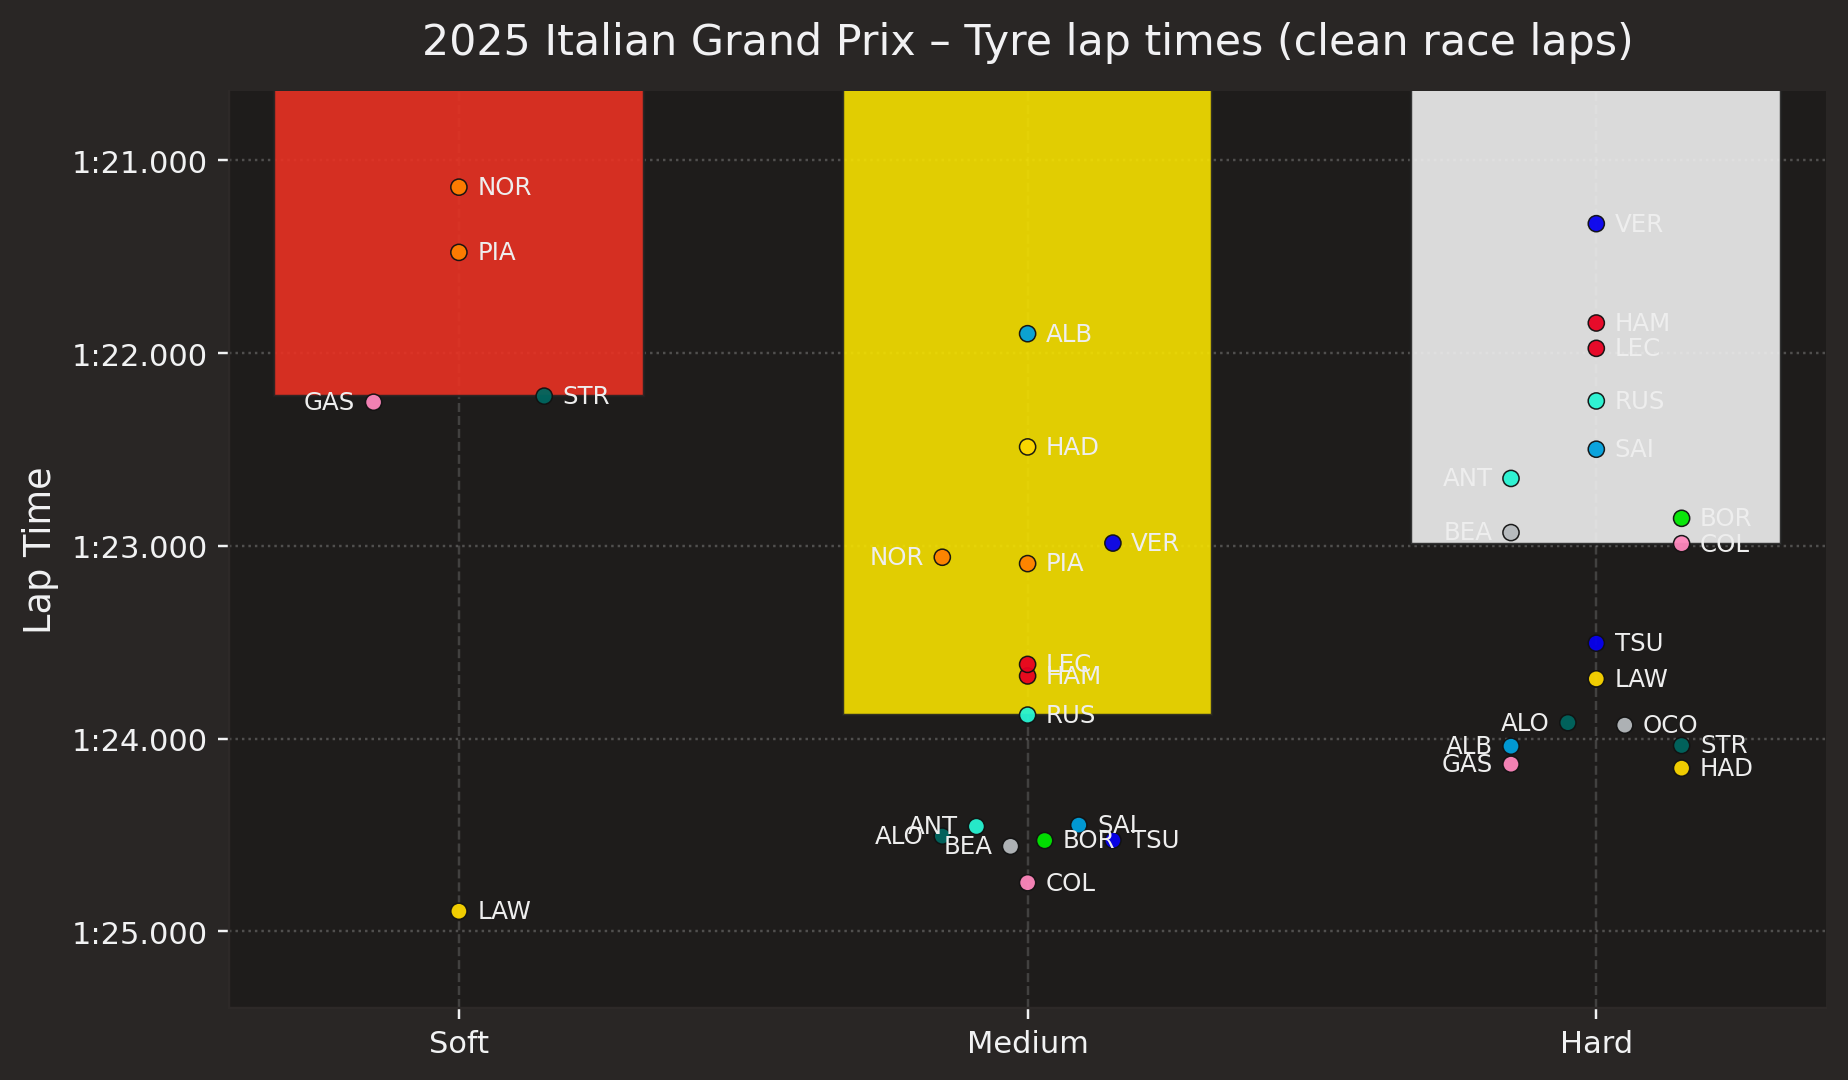
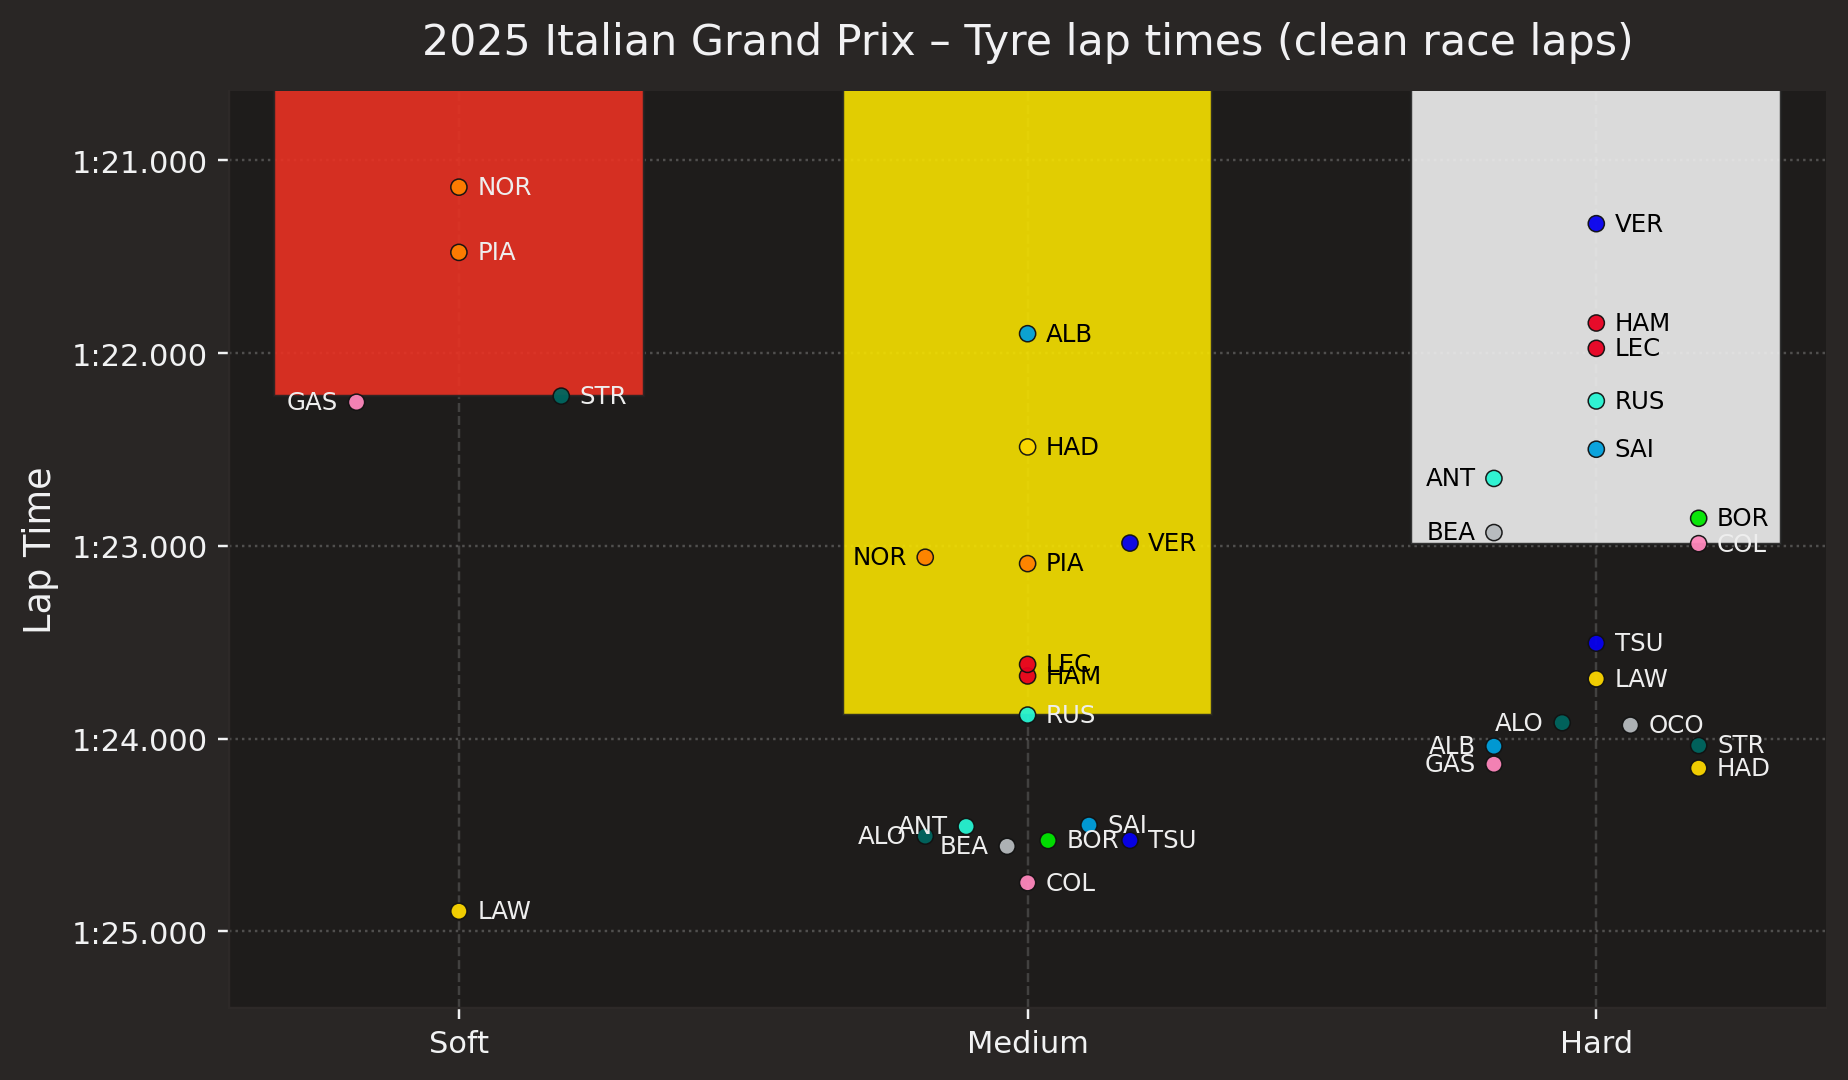
Enhance tyre performance chart annotations and adjust swarm plot width
- Added a dictionary to store median lap times by compound for improved annotation positioning.
- Updated annotation colors based on position relative to the bar
- Increased the swarm plot width

diff --git a/src/fastf1_analytics/charts/tyre_performance.py b/src/fastf1_analytics/charts/tyre_performance.py
@@ -146,12 +146,13 @@ def build_tyre_performance(
     xcats = comp_stats["Compound"].tolist()
     xs = np.arange(len(xcats))
     medians = comp_stats["median_s"].to_numpy()
+    bar_top_by_compound = {c: m for c, m in zip(xcats, medians)}
 
     # Bars = median lap time across drivers
     bar_colors = [get_compound_color(c) for c in xcats]
     ax.bar(xs, medians, width=0.65, edgecolor="#222", linewidth=0.8, color=bar_colors, alpha=0.9)
 
-    SWARM_WIDTH = 0.15  # max horizontal spread (in x-axis category units)
+    SWARM_WIDTH = 0.18  # max horizontal spread (in x-axis category units)
     EPS_SECONDS = 0.25  # points within this lap-time window are considered overlapping
 
     x_map = {c: i for i, c in enumerate(xcats)}
@@ -193,8 +194,14 @@ def build_tyre_performance(
     # Plot points (team-colored)
     ax.scatter(xpts, ypts, s=28, alpha=0.95, c=colors, edgecolor="#111", linewidth=0.5)
 
-    # Annotate each dot with the driver code, nudged left/right to match offset
-    for xi, yi, drv, xo in zip(xpts, ypts, drivers, x_offsets):
+    compounds = per_driver["Compound"].to_numpy()
+
+    # Annotate each dot with the driver code; black text on Medium/Hard for contrast
+    for xi, yi, drv, xo, comp in zip(xpts, ypts, drivers, x_offsets, compounds):
+        # inside the bar if the point's y is <= the bar top for its compound
+        bar_top = bar_top_by_compound.get(comp, float("inf"))
+        inside_bar = yi <= (bar_top - 0.01)
+        label_color = "#000000" if (comp in ("MEDIUM", "HARD") and inside_bar) else "#EEEEEE"
         ax.annotate(
             drv,
             (xi, yi),
@@ -203,7 +210,7 @@ def build_tyre_performance(
             fontsize=8,
             ha="left" if xo >= 0 else "right",
             va="center",
-            color="#EEEEEE",
+            color=label_color,
             clip_on=True,
         )
     ax.set_xticks(xs, [c.title() for c in xcats])
